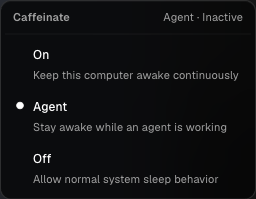
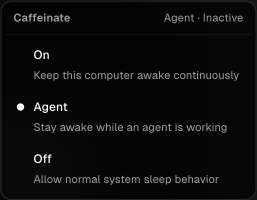
fix(ui): center caffeinate radio indicator

diff --git a/src/renderer/src/components/status-bar/CaffeinateStatusSegment.tsx b/src/renderer/src/components/status-bar/CaffeinateStatusSegment.tsx
@@ -139,7 +139,7 @@ export function CaffeinateStatusSegment({
         <DropdownMenuRadioGroup value={mode} onValueChange={setMode}>
           <DropdownMenuRadioItem
             value="on"
-            className="items-start py-1.5 [&>span:first-child]:translate-y-0.5"
+            className="items-start py-1.5 [&>span:first-child]:translate-y-[3px]"
           >
             <span className="flex flex-col">
               <span>{modeLabel('on')}</span>
@@ -153,7 +153,7 @@ export function CaffeinateStatusSegment({
           </DropdownMenuRadioItem>
           <DropdownMenuRadioItem
             value="auto"
-            className="items-start py-1.5 [&>span:first-child]:translate-y-0.5"
+            className="items-start py-1.5 [&>span:first-child]:translate-y-[3px]"
           >
             <span className="flex flex-col">
               <span>{modeLabel('auto')}</span>
@@ -167,7 +167,7 @@ export function CaffeinateStatusSegment({
           </DropdownMenuRadioItem>
           <DropdownMenuRadioItem
             value="off"
-            className="items-start py-1.5 [&>span:first-child]:translate-y-0.5"
+            className="items-start py-1.5 [&>span:first-child]:translate-y-[3px]"
           >
             <span className="flex flex-col">
               <span>{modeLabel('off')}</span>
